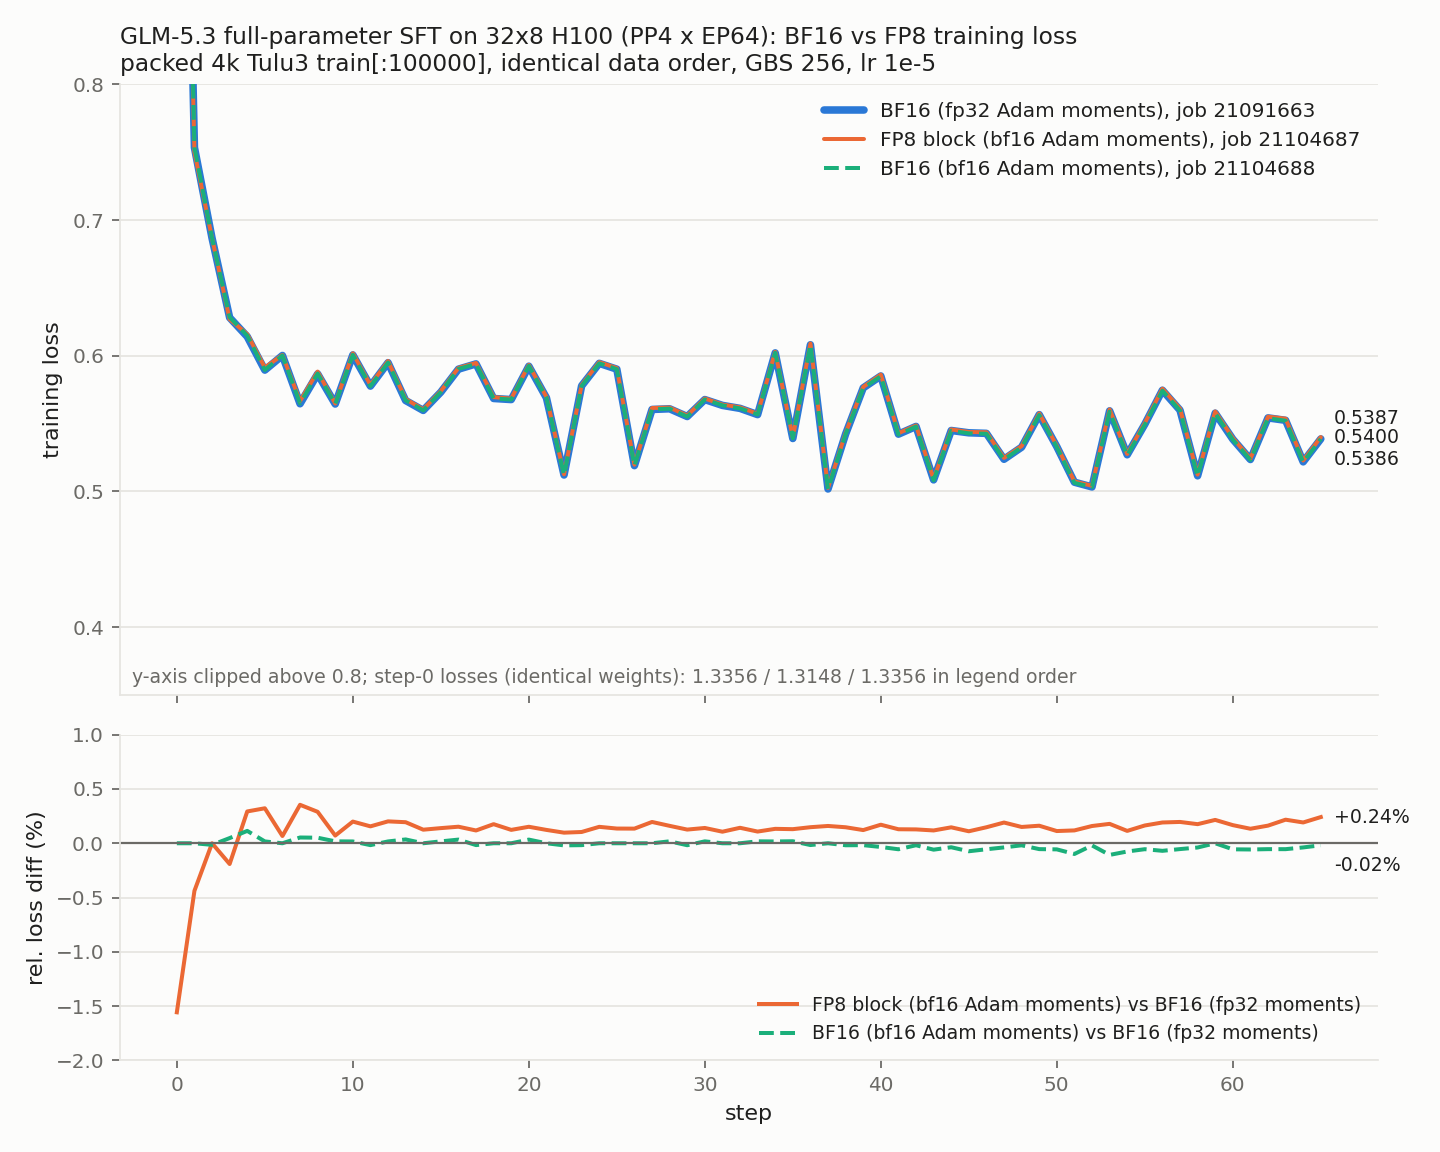
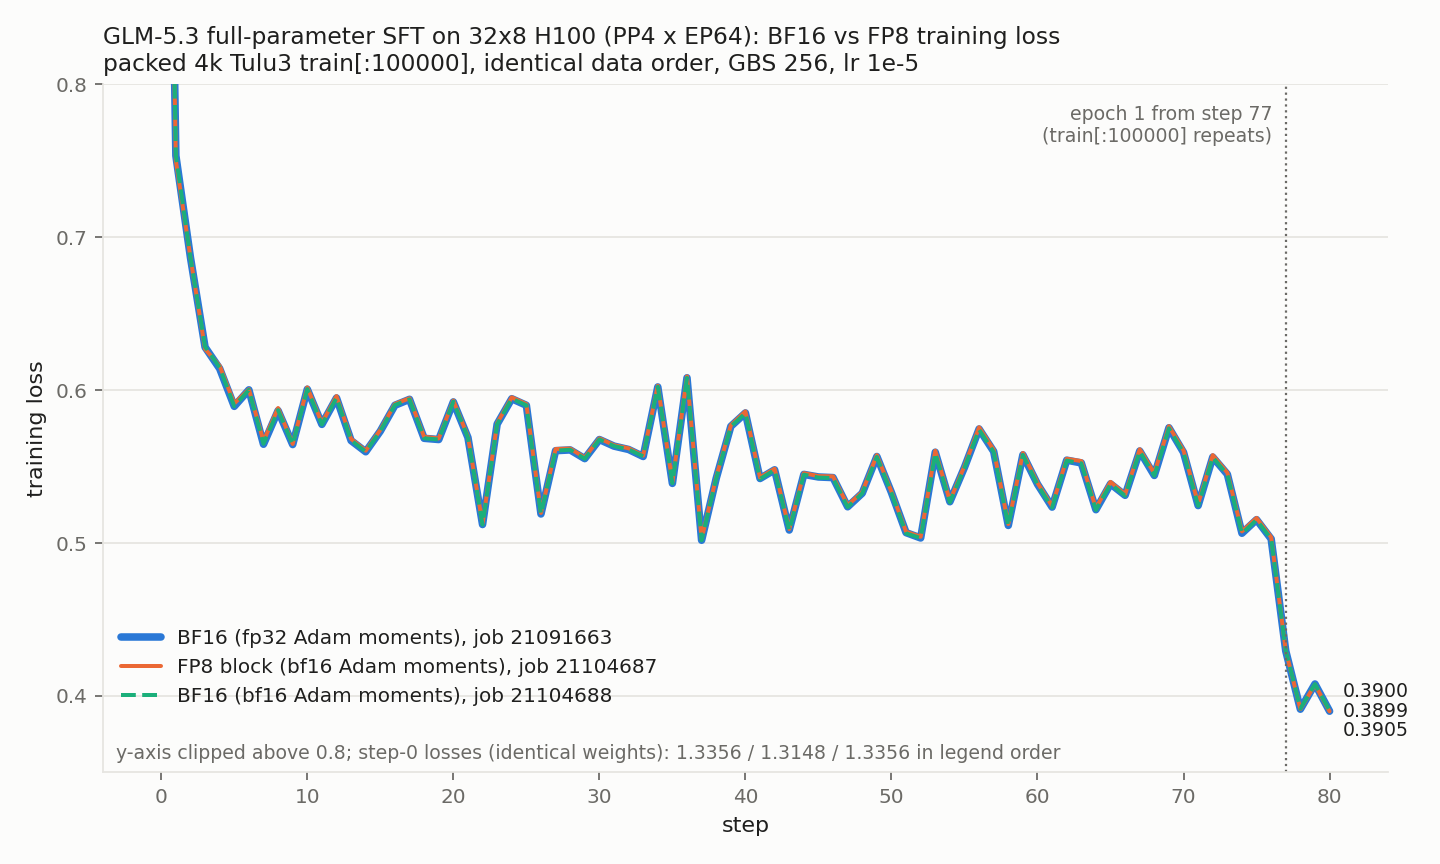
assets: GLM-5.3 FP8 vs BF16 loss curves (single panel) for PR #4575

diff --git a/plot_loss_curves.py b/plot_loss_curves.py
@@ -1,0 +1,61 @@
+"""Plot GLM-5.3 full-model 100-step training loss: BF16 vs FP8 (and the bf16-moment BF16 control).
+
+Usage: python plot_loss_curves.py compare_3runs.tsv out.png
+Single panel, one y-axis: loss per step for all runs on identical data order.
+"""
+
+import csv
+import sys
+
+import matplotlib
+
+matplotlib.use("Agg")
+import matplotlib.pyplot as plt  # noqa: E402
+
+SERIES = [  # fixed categorical order (validated palette: blue, orange, aqua); (key, label, color, style, width, label dy)
+    ("bf16_fp32mom", "BF16 (fp32 Adam moments), job 21091663", "#2a78d6", "-", 3.4, 9),
+    ("fp8_bf16mom", "FP8 block (bf16 Adam moments), job 21104687", "#eb6834", "-", 1.8, 0),
+    ("bf16_bf16mom", "BF16 (bf16 Adam moments), job 21104688", "#1baf7a", "--", 1.8, -9),
+]
+YLIM = (0.35, 0.80)  # steps >= 1; step-0 values are quoted in the note
+TEXT, MUTED, GRID = "#1f1f1e", "#6b6a66", "#e6e5e1"
+
+tsv, out = sys.argv[1:3]
+rows = list(csv.DictReader(open(tsv), delimiter="\t"))
+steps = [int(r["step"]) for r in rows]
+epoch1 = next((int(r["step"]) for r in rows if int(r["epoch"]) == 1), None)
+
+fig, ax = plt.subplots(figsize=(9, 5.4), facecolor="#fcfcfb")
+ax.set_facecolor("#fcfcfb")
+for s in ("top", "right"):
+    ax.spines[s].set_visible(False)
+for s in ("left", "bottom"):
+    ax.spines[s].set_color(GRID)
+ax.tick_params(colors=MUTED, labelsize=9)
+ax.grid(True, axis="y", color=GRID, linewidth=0.8)
+ax.set_axisbelow(True)
+
+step0 = []
+for key, label, color, ls, lw, dy in SERIES:
+    if key not in rows[0]:
+        continue
+    ys = [float(r[key]) for r in rows]
+    ax.plot(steps, ys, color=color, linewidth=lw, linestyle=ls, label=label, solid_capstyle="round")
+    ax.annotate(f"{ys[-1]:.4f}", (steps[-1], ys[-1]), textcoords="offset points", xytext=(6, dy), fontsize=8.5, color=TEXT, va="center")
+    step0.append(f"{ys[0]:.4f}")
+ax.set_ylim(*YLIM)
+ax.annotate("y-axis clipped above 0.8; step-0 losses (identical weights): " + " / ".join(step0) + " in legend order",
+            (0.01, 0.02), xycoords="axes fraction", fontsize=8.5, color=MUTED)
+ax.set_ylabel("training loss", color=TEXT)
+ax.set_xlabel("step", color=TEXT)
+ax.set_title("GLM-5.3 full-parameter SFT on 32x8 H100 (PP4 x EP64): BF16 vs FP8 training loss\n"
+             "packed 4k Tulu3 train[:100000], identical data order, GBS 256, lr 1e-5",
+             color=TEXT, fontsize=10.5, loc="left")
+ax.legend(frameon=False, fontsize=9, loc="lower left", bbox_to_anchor=(0.0, 0.07), labelcolor=TEXT)
+if epoch1 is not None:
+    ax.axvline(epoch1, color=MUTED, linewidth=1, linestyle=":")
+    ax.annotate(f"epoch 1 from step {epoch1}\n(train[:100000] repeats)", (epoch1, YLIM[1]), textcoords="offset points",
+                xytext=(-6, -26), fontsize=8.5, color=MUTED, ha="right")
+fig.tight_layout()
+fig.savefig(out, dpi=160, facecolor=fig.get_facecolor())
+print("wrote", out, "steps", len(steps), "series", [k for k, *_ in SERIES if k in rows[0]])
